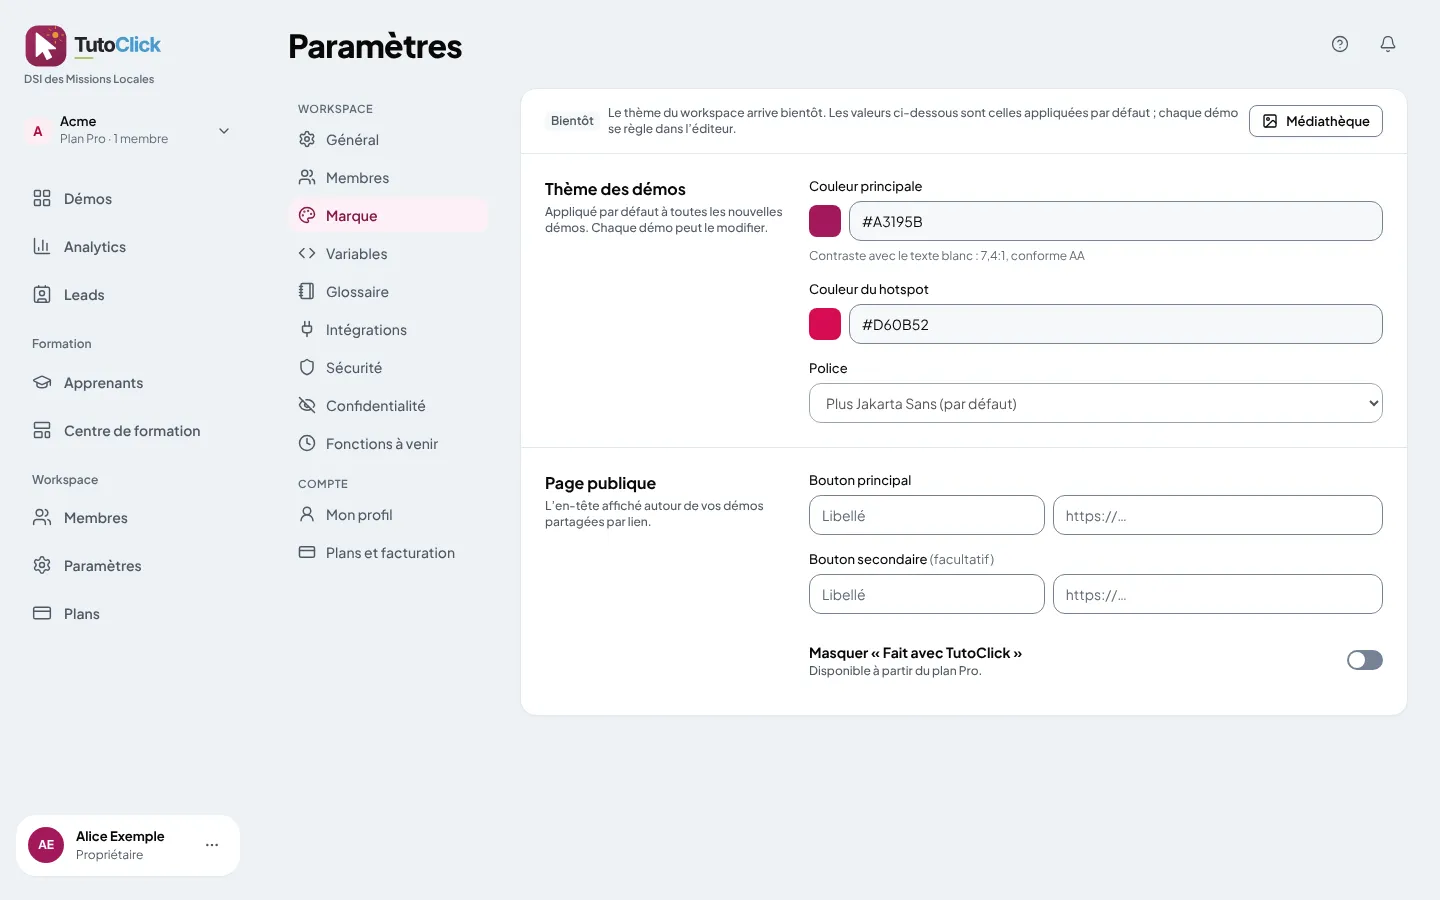
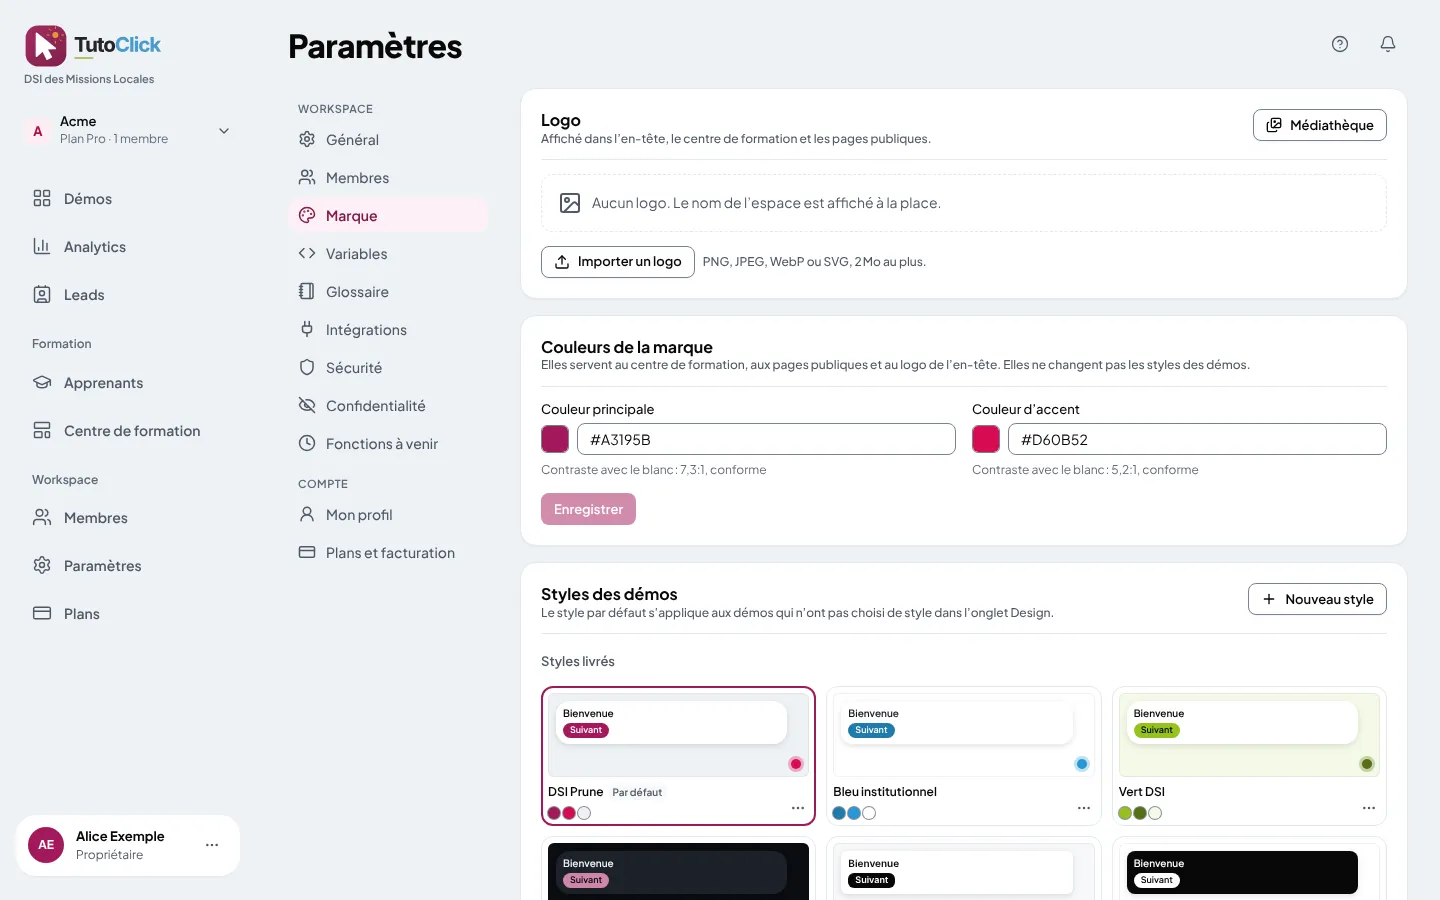
L27 : aucun saut de mise en page au chargement (Démos, Membres), visite des Paramètres régénérée
- Démos : prise en main, liste et indicateurs affichés ensemble (CLS 0,174 → 0).
- Membres : membres, invitations et plan chargés ensemble.
- Navigation entre pages lazy : CLS 0 (transitions de React Router).

Claude-Session: https://claude.ai/code/session_016yn81ZxTg2ruYKp45zgJVh

diff --git a/apps/web/src/pages/demos/DemosPage.tsx b/apps/web/src/pages/demos/DemosPage.tsx
@@ -44,7 +44,7 @@ import { useToast } from '../../components/Toast';
 import { publicDemoUrl } from '../../lib/embed';
 import { NewDemoDialog } from './NewDemoDialog';
 import { TemplatesDialog } from './TemplatesDialog';
-import { OnboardingCard } from './OnboardingCard';
+import { OnboardingCard, useOnboarding } from './OnboardingCard';
 import { ExportDialog } from '../export/ExportDialog';
 import { DistributeDialog } from '../share/DistributeDialog';
 import { ConfirmDialog } from '../../components/ConfirmDialog';
@@ -67,6 +67,7 @@ export function DemosPage() {
   const { current, can } = useWorkspace();
   const ws = current!;
   const [demos, setDemos] = useState<Demo[] | null>(null);
+  const onb = useOnboarding();
   const [folders, setFolders] = useState<FolderRow[]>([]);
   const [stats, setStats] = useState<Record<string, Stats>>({});
   const [covers, setCovers] = useState<Record<string, string>>({});
@@ -122,11 +123,6 @@ export function DemosPage() {
       supabase.rpc('workspace_overview', { p_workspace: ws.id, p_days: 30 }),
     ]);
     const list = d.data ?? [];
-    setDemos(list);
-    setFolders(f.data ?? []);
-    setStats(
-      Object.fromEntries(((o.data ?? []) as Array<Stats & { demo_id: string }>).map((r) => [r.demo_id, r])),
-    );
     // KPI du workspace sur 30 jours (et les 30 précédents pour les variations). Repli sur la somme
     // de workspace_overview si la RPC workspace_kpis (migration 130800) n'est pas encore en place.
     const now = Date.now();
@@ -139,6 +135,12 @@ export function DemosPage() {
       }),
       supabase.rpc('workspace_kpis', { p_workspace: ws.id, p_from: iso(60), p_to: iso(30) }),
     ]);
+    // Liste et indicateurs affichés ensemble (aucun saut de mise en page au chargement)
+    setFolders(f.data ?? []);
+    setStats(
+      Object.fromEntries(((o.data ?? []) as Array<Stats & { demo_id: string }>).map((r) => [r.demo_id, r])),
+    );
+    setDemos(list);
     if (!cur.error && cur.data)
       setKpis({ cur: cur.data as unknown as Kpis, prev: (prev.data as unknown as Kpis) ?? null });
     else {
@@ -259,7 +261,7 @@ export function DemosPage() {
     });
   }
 
-  if (!demos) return <Loading />;
+  if (!demos || !onb.ready) return <Loading />;
 
   /** DSH-10 : publiée puis modifiée (changements non publiés). */
   const isModified = (d: Demo) =>
@@ -382,6 +384,7 @@ export function DemosPage() {
 
       {/* L26-01 : « Prise en main de votre espace » (remplace « Premiers pas ») */}
       <OnboardingCard
+        onb={onb}
         onCapture={openNew}
         latestDemoId={demos[0]?.id ?? null}
         publishedDemoId={demos.find((d) => d.status === 'published')?.id ?? null}

diff --git a/apps/web/src/pages/demos/OnboardingCard.tsx b/apps/web/src/pages/demos/OnboardingCard.tsx
@@ -26,11 +26,40 @@ interface State {
   hiddenAt: string | null;
 }
 
+/**
+ * État de la prise en main, chargé par la page Démos avant son premier affichage (la carte arrive en
+ * même temps que la liste : aucun saut de mise en page).
+ */
+export function useOnboarding() {
+  const { current, can } = useWorkspace();
+  const wsId = current?.id;
+  const editor = can('demo.edit');
+  const [state, setState] = useState<State | null>(null);
+  const [ready, setReady] = useState(!editor);
+  const load = useCallback(() => {
+    if (!editor || !wsId) return setReady(true);
+    void supabase
+      .rpc('workspace_onboarding', { p_ws: wsId })
+      .then(({ data }) => setState(data as State | null))
+      .then(() => setReady(true));
+  }, [wsId, editor]);
+  useEffect(load, [load]);
+  // « Reprendre la prise en main » depuis l'aide
+  useEffect(() => {
+    addEventListener('fd:onboarding', load);
+    return () => removeEventListener('fd:onboarding', load);
+  }, [load]);
+  return { state, setState, ready };
+}
+export type Onboarding = ReturnType<typeof useOnboarding>;
+
 export function OnboardingCard({
+  onb,
   onCapture,
   latestDemoId,
   publishedDemoId,
 }: {
+  onb: Onboarding;
   onCapture: () => void;
   latestDemoId: string | null;
   publishedDemoId: string | null;
@@ -41,7 +70,7 @@ export function OnboardingCard({
   const { current, can } = useWorkspace();
   const ws = current!;
   const admin = ws.role === 'owner' || ws.role === 'admin';
-  const [state, setState] = useState<State | null>(null);
+  const { state, setState } = onb;
   const [open, setOpen] = useState(() => {
     try {
       return localStorage.getItem(`fd.onb.collapsed.${ws.id}`) !== '1';
@@ -50,19 +79,6 @@ export function OnboardingCard({
     }
   });
   const [tour, setTour] = useState<{ id: string; title: string } | null>(null);
-
-  const load = useCallback(() => {
-    if (!can('demo.edit')) return;
-    void supabase
-      .rpc('workspace_onboarding', { p_ws: ws.id })
-      .then(({ data }) => setState(data as State | null));
-  }, [ws.id, can]);
-  useEffect(load, [load]);
-  // « Reprendre la prise en main » depuis l'aide
-  useEffect(() => {
-    addEventListener('fd:onboarding', load);
-    return () => removeEventListener('fd:onboarding', load);
-  }, [load]);
 
   if (!state || !can('demo.edit') || state.hiddenAt) return null;
   const visible = admin ? [...STEPS] : EDITOR_STEPS;

diff --git a/apps/web/src/pages/settings/Members.tsx b/apps/web/src/pages/settings/Members.tsx
@@ -58,26 +58,25 @@ export function Members() {
   const canManage = can('members.manage');
 
   const load = useCallback(async () => {
-    const [m, u] = await Promise.all([
+    // Tout est chargé avant l'affichage : membres et invitations arrivent ensemble (pas de saut)
+    const [m, u, i] = await Promise.all([
       supabase.rpc('list_members', { p_workspace: ws.id }),
       supabase.rpc('workspace_usage', { p_workspace: ws.id }),
+      canManage
+        ? supabase
+            .from('invitations')
+            .select('*')
+            .eq('workspace_id', ws.id)
+            .is('accepted_at', null)
+            .order('created_at', { ascending: false })
+        : Promise.resolve({ data: [] as Tables<'invitations'>[] }),
     ]);
-    setMembers((m.data ?? []) as MemberRow[]);
     const us = u.data as unknown as { plan: string; limits: { members: number | null } } | null;
+    const p = us ? await supabase.from('plans').select('name').eq('code', us.plan).maybeSingle() : null;
+    setMembers((m.data ?? []) as MemberRow[]);
+    setInvites(i.data ?? []);
     setUsage(us);
-    if (us) {
-      const p = await supabase.from('plans').select('name').eq('code', us.plan).maybeSingle();
-      setPlanName(p.data?.name ?? us.plan);
-    }
-    if (canManage) {
-      const i = await supabase
-        .from('invitations')
-        .select('*')
-        .eq('workspace_id', ws.id)
-        .is('accepted_at', null)
-        .order('created_at', { ascending: false });
-      setInvites(i.data ?? []);
-    }
+    if (us) setPlanName(p?.data?.name ?? us.plan);
   }, [ws.id, canManage]);
 
   useEffect(() => {

diff --git a/apps/web/src/pages/settings/brand/brand.css b/apps/web/src/pages/settings/brand/brand.css
@@ -68,6 +68,8 @@
 }
 .br-sub {
   margin: 4px 0 0;
+  text-transform: none;
+  letter-spacing: normal;
   font-size: 13px;
   font-weight: 600;
 }
